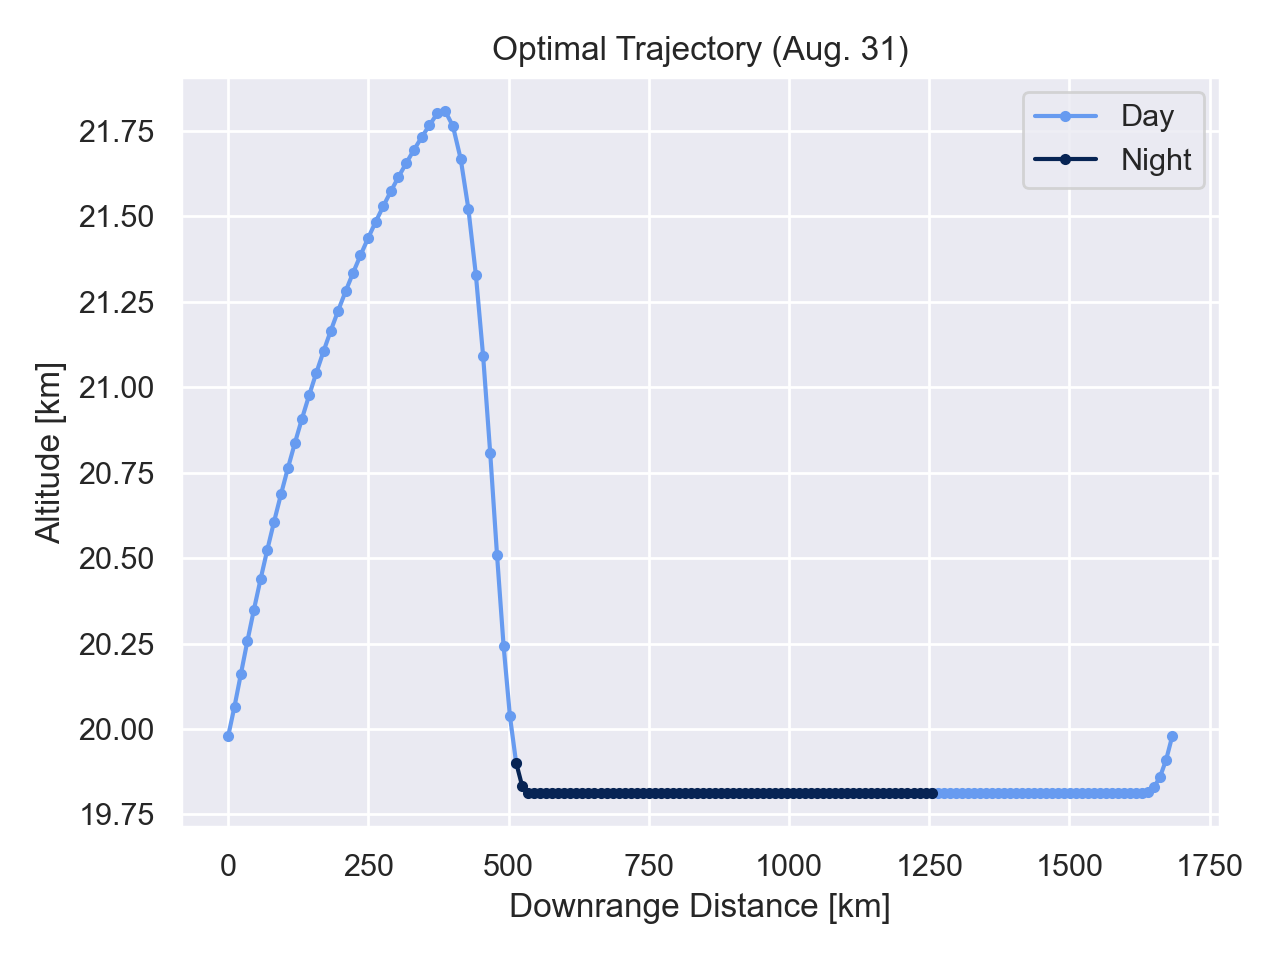
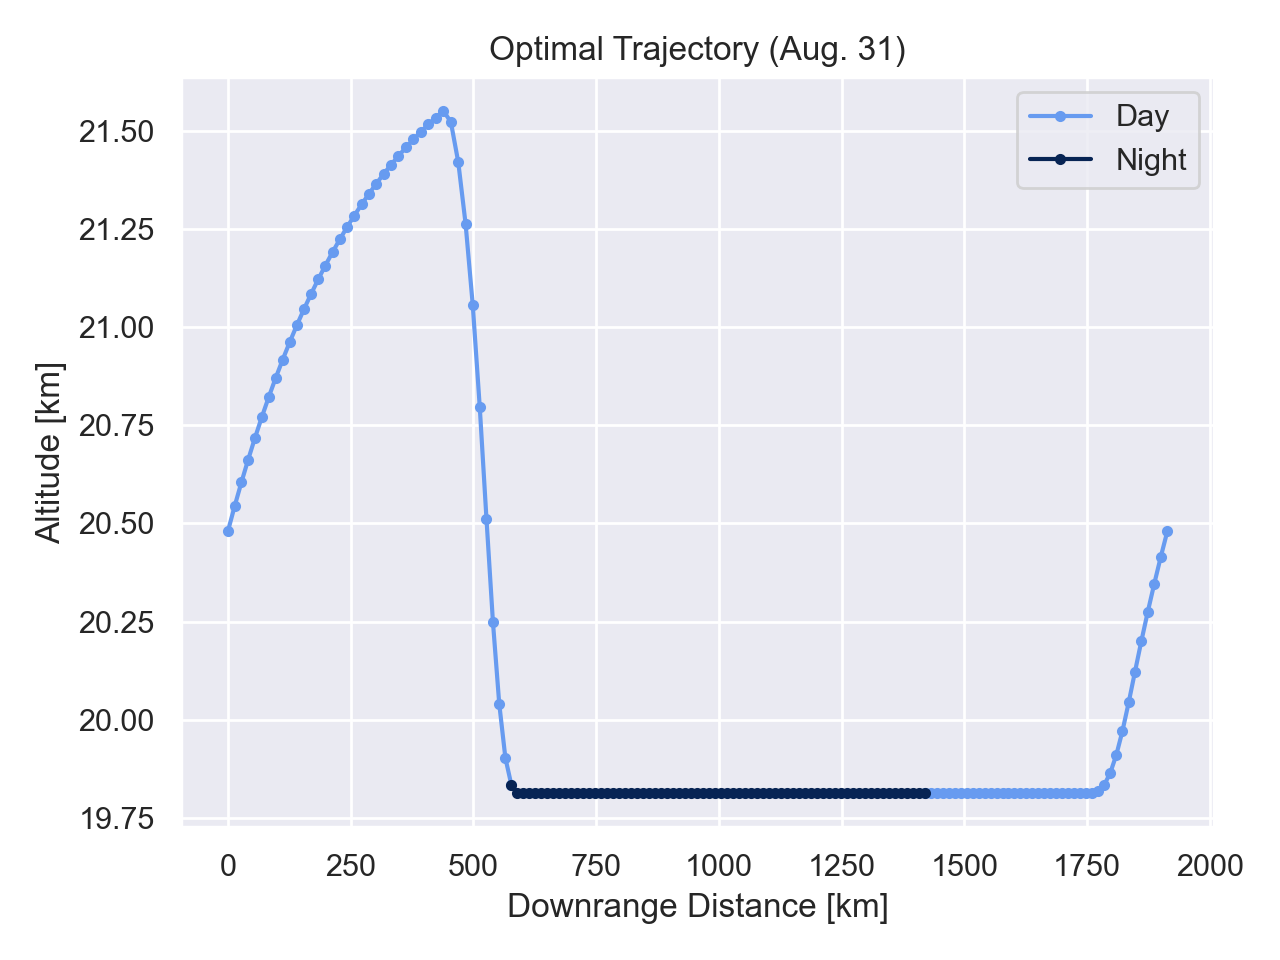
switched to sunpower; changed mass total scaling; updated avionics mass; updated wire weight

diff --git a/design_opt.py b/design_opt.py
@@ -207,6 +207,9 @@ nose_length = 1.80  # Calculated on 4/15/20 with Trevor and Olek
 fuse_diameter = 0.6
 boom_diameter = 0.2
 
+wing_airfoil = e216
+tails_airfoil = naca0008
+
 wing = asb.Wing(
     name="Main Wing",
     # x_le=-0.05 * wing_root_chord,  # Coordinates of the wing's leading edge # TODO make this a free parameter?
@@ -221,7 +224,7 @@ wing = asb.Wing(
             z_le=0,  # Coordinates of the XSec's leading edge, relative to the wing's leading edge.
             chord=wing_root_chord,
             twist=0,  # degrees
-            airfoil=e216,  # Airfoils are blended between a given XSec and the next one.
+            airfoil=wing_airfoil,  # Airfoils are blended between a given XSec and the next one.
             control_surface_type='symmetric',
             # Flap # Control surfaces are applied between a given XSec and the next one.
             control_surface_deflection=0,  # degrees
@@ -232,7 +235,7 @@ wing = asb.Wing(
             z_le=0,  # wing_span / 2 * cas.pi / 180 * 5,
             chord=wing_root_chord,
             twist=0,
-            airfoil=e216,
+            airfoil=wing_airfoil,
         ),
         asb.WingXSec(  # Tip
             x_le=-wing_root_chord * wing_taper_ratio / 4,
@@ -240,7 +243,7 @@ wing = asb.Wing(
             z_le=0,  # wing_span / 2 * cas.pi / 180 * 5,
             chord=wing_root_chord * wing_taper_ratio,
             twist=0,
-            airfoil=e216,
+            airfoil=wing_airfoil,
         ),
     ]
 )
@@ -257,7 +260,7 @@ hstab = asb.Wing(
             z_le=0,  # Coordinates of the XSec's leading edge, relative to the wing's leading edge.
             chord=hstab_chord,
             twist=-3,  # degrees # TODO fix
-            airfoil=naca0008,  # Airfoils are blended between a given XSec and the next one.
+            airfoil=tails_airfoil,  # Airfoils are blended between a given XSec and the next one.
             control_surface_type='symmetric',
             # Flap # Control surfaces are applied between a given XSec and the next one.
             control_surface_deflection=0,  # degrees
@@ -268,7 +271,7 @@ hstab = asb.Wing(
             z_le=0,
             chord=hstab_chord,
             twist=-3,  # TODO fix
-            airfoil=naca0008,
+            airfoil=tails_airfoil,
         ),
     ]
 )
@@ -285,7 +288,7 @@ vstab = asb.Wing(
             z_le=0,  # Coordinates of the XSec's leading edge, relative to the wing's leading edge.
             chord=vstab_chord,
             twist=0,  # degrees
-            airfoil=naca0008,  # Airfoils are blended between a given XSec and the next one.
+            airfoil=tails_airfoil,  # Airfoils are blended between a given XSec and the next one.
             control_surface_type='symmetric',
             # Flap # Control surfaces are applied between a given XSec and the next one.
             control_surface_deflection=0,  # degrees
@@ -296,7 +299,7 @@ vstab = asb.Wing(
             z_le=vstab_span,
             chord=vstab_chord,
             twist=0,
-            airfoil=naca0008,
+            airfoil=tails_airfoil,
         ),
     ]
 )
@@ -572,16 +575,14 @@ opti.subject_to([
 
 n_propellers = 2 * n_booms
 # n_propellers = opti.variable()
-# opti.set_initial(n_propellers,
-#                  2
-#                  )
+# opti.set_initial(n_propellers, 2)
 # opti.subject_to([
 #     n_propellers > 2,
 #     n_propellers < 6,
 # ])
 
 area_propulsive = cas.pi / 4 * propeller_diameter ** 2 * n_propellers
-propeller_coefficient_of_performance = 0.9  # a total WAG
+propeller_coefficient_of_performance = 0.90  # a total WAG
 motor_efficiency = 0.856 / (0.856 + 0.026 + 0.018 + 0.004)  # back-calculated from Odysseus data (94.7%)
 
 power_out_propulsion_shaft = lib_prop_prop.propeller_shaft_power_from_thrust(
@@ -603,12 +604,14 @@ opti.subject_to([
 
 battery_voltage = 240  # From Olek Peraire 4/2, propulsion slack
 
-# mass_motor_raw = lib_prop_elec.mass_motor_electric(max_power=power_out_max / n_propellers) * n_propellers
 mass_motor_raw = lib_prop_elec.mass_motor_electric(
     max_power=power_out_max / n_propellers,
-    kv_rpm_volt=5,
+    kv_rpm_volt=4,
     voltage=battery_voltage
-) * n_propellers
+) * n_propellers  # TODO update with real torque data
+# mass_motor_raw = lib_prop_elec.mass_motor_electric(max_power=power_out_max / n_propellers) * n_propellers # TODO old model
+
+
 mass_motor_mounted = 2 * mass_motor_raw  # similar to a quote from Raymer, modified to make sensible units, prop weight roughly subtracted
 
 mass_propellers = n_propellers * lib_prop_prop.mass_hpa_propeller(
@@ -629,7 +632,7 @@ power_out_payload = cas.if_else(
 )
 
 # Account for avionics power
-power_out_avionics = 276  # Pulled from Avionics spreadsheet on 4/16/20
+power_out_avionics = 276  # Pulled from Avionics spreadsheet on 4/23/20
 # https://docs.google.com/spreadsheets/d/1nhz2SAcj4uplEZKqQWHYhApjsZvV9hme9DlaVmPca0w/edit?pli=1#gid=0
 
 ### Power accounting
@@ -668,8 +671,8 @@ if propulsion_type == "solar":
 
     ### Solar calculations
 
-    solar_cell_efficiency = 0.186
-    # solar_cell_efficiency = 0.25
+    # solar_cell_efficiency = 0.186
+    solar_cell_efficiency = 0.25
     # This figure should take into account all temperature factors,
     # spectral losses (different spectrum at altitude), multi-junction effects, etc.
     # Should not take into account MPPT losses.
@@ -682,8 +685,8 @@ if propulsion_type == "solar":
     # 4/21/20: Bjarni, Knock down SunPower Gen2 numbers to 18.6% due to mismatch, gaps, fingers & edges, covering, spectrum losses, temperature corrections.
 
     # Solar cell weight
-    rho_solar_cells = 0.425  # kg/m^2, solar cell area density.
-    # rho_solar_cells = 0.350  # kg/m^2, solar cell area density.
+    # rho_solar_cells = 0.425  # kg/m^2, solar cell area density.
+    rho_solar_cells = 0.350  # kg/m^2, solar cell area density.
     # The solar_simple_demo model gives this as 0.27. Burton's model gives this as 0.30.
     # This paper (https://core.ac.uk/download/pdf/159146935.pdf) gives it as 0.42.
     # This paper (https://scholarsarchive.byu.edu/cgi/viewcontent.cgi?article=4144&context=facpub) effectively gives it as 0.3143.
@@ -734,14 +737,13 @@ if propulsion_type == "solar":
         battery_pack_cell_fraction=battery_pack_cell_percentage
     )
 
-
-    # mass_wires = lib_prop_elec.mass_wires(
-    #     wire_length=wing.span() / 2,
-    #     max_current=power_out_max / battery_voltage,
-    #     allowable_voltage_drop=battery_voltage * 0.0225,
-    #     material="aluminum"
-    # ) # buildup model
-    mass_wires = 0.868  # Taken from Avionics spreadsheet on 4/10/20
+    mass_wires = lib_prop_elec.mass_wires(
+        wire_length=wing.span() / 2,
+        max_current=power_out_max / battery_voltage,
+        allowable_voltage_drop=battery_voltage * 0.01,
+        material="aluminum"
+    ) # buildup model
+    # mass_wires = 0.868  # Taken from Avionics spreadsheet on 4/10/20
     # https://docs.google.com/spreadsheets/d/1nhz2SAcj4uplEZKqQWHYhApjsZvV9hme9DlaVmPca0w/edit?pli=1#gid=0
 
     mass_MPPT = 5.7  # Model taken from Avionics spreadsheet on 4/10/20
@@ -899,13 +901,13 @@ mass_structural *= structural_mass_margin_multiplier
 
 ### Avionics
 # mass_avionics = 3.7 / 3.8 * 25  # back-calculated from Kevin Uleck's figures in MIT 16.82 presentation
-mass_avionics = 10.743  # Pulled from Avionics team spreadsheet on 4/16
+mass_avionics = 7.048  # Pulled from Avionics team spreadsheet on 4/23
 # https://docs.google.com/spreadsheets/d/1nhz2SAcj4uplEZKqQWHYhApjsZvV9hme9DlaVmPca0w/edit?pli=1#gid=0
 
 opti.subject_to([
-    mass_total / 500 == (
+    mass_total / 250 == (
             mass_payload + mass_structural + mass_propulsion + mass_power_systems + mass_avionics
-    ) / 500
+    ) / 250
 ])
 
 gravity_force = g * mass_total
@@ -1220,7 +1222,7 @@ if __name__ == "__main__":
     plt.title("Lift Coefficient over a Day (Aug. 31)")
     plt.tight_layout()
     plt.savefig("outputs/CL.png")
-    plt.show() if show_plots else plt.close(fig)
+    # plt.show() if show_plots else plt.close(fig)
 
     fig, ax = plt.subplots(1, 1, figsize=(6.4, 4.8), dpi=200)
     plot(hour, net_power)
@@ -1238,7 +1240,7 @@ if __name__ == "__main__":
     plt.title("Battery Charge State over a Day")
     plt.tight_layout()
     plt.savefig("outputs/battery_charge.png")
-    plt.show() if show_plots else plt.close(fig)
+    # plt.show() if show_plots else plt.close(fig)
 
     fig, ax = plt.subplots(1, 1, figsize=(6.4, 4.8), dpi=200)
     plot(hour, wing_Re)
@@ -1247,7 +1249,7 @@ if __name__ == "__main__":
     plt.title("Wing Reynolds Number over a Day (Aug. 31)")
     plt.tight_layout()
     plt.savefig("outputs/wing_Re.png")
-    plt.show() if show_plots else plt.close(fig)
+    # plt.show() if show_plots else plt.close(fig)
 
     fig, ax = plt.subplots(1, 1, figsize=(6.4, 4.8), dpi=200)
     plot(x / 1000, y / 1000)
@@ -1265,7 +1267,7 @@ if __name__ == "__main__":
     plt.title("Power Generated over a Day (Aug. 31)")
     plt.tight_layout()
     plt.savefig("outputs/power_in.png")
-    plt.show() if show_plots else plt.close(fig)
+    # plt.show() if show_plots else plt.close(fig)
 
     fig, ax = plt.subplots(1, 1, figsize=(6.4, 4.8), dpi=200)
     plot(hour, power_out)
@@ -1274,7 +1276,7 @@ if __name__ == "__main__":
     plt.title("Power Consumed over a Day (Aug. 31)")
     plt.tight_layout()
     plt.savefig("outputs/power_out.png")
-    plt.show() if show_plots else plt.close(fig)
+    # plt.show() if show_plots else plt.close(fig)
 
     # Draw mass breakdown
     fig = plt.figure(figsize=(10, 8), dpi=200)
@@ -1371,6 +1373,21 @@ if __name__ == "__main__":
     plt.annotate(
         s="* percentages referenced to total aircraft mass",
         xy=(0.01, 0.01),
+        # xytext=(0.03, 0.03),
+        xycoords="figure fraction",
+        # arrowprops={
+        #     "color"     : "k",
+        #     "width"     : 0.25,
+        #     "headwidth" : 4,
+        #     "headlength": 6,
+        # }
+    )
+    plt.annotate(
+        s="""
+        Total mass: %.1f kg
+        Wing span: %.2f m
+        """ % (s(max_mass_total), s(wing.span())),
+        xy=(0.03, 0.70),
         # xytext=(0.03, 0.03),
         xycoords="figure fraction",
         # arrowprops={

diff --git a/studies/gearbox_study.py b/studies/gearbox_study.py
@@ -92,7 +92,8 @@ motor_masses = np.array([
     for gear_ratio in gear_ratios
 ])
 gearbox_masses = np.array([
-    mass_gearbox(power, rpm_des * gear_ratio, rpm_des)
+    2 * mass_gearbox(power, rpm_des * gear_ratio, rpm_des)
+    # multiplying by 2 to roughly match things I found on Google; again, SUPER quick study
     for gear_ratio in gear_ratios
 ])
 system_masses = motor_masses + gearbox_masses
